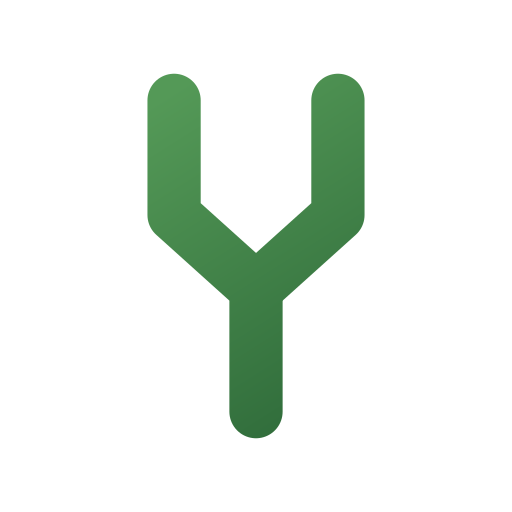
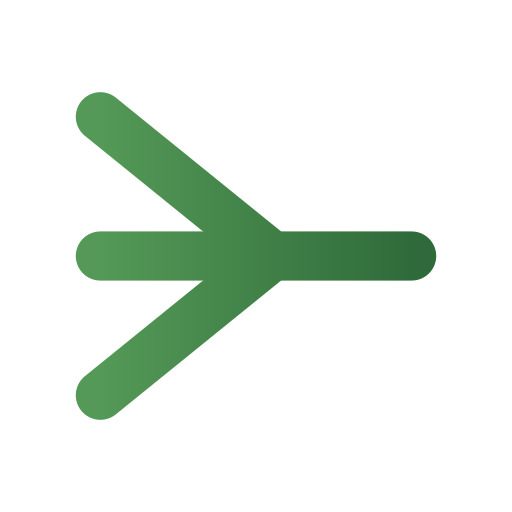
feat: 标识改为三进一出(三条股道汇入主干) v0.39.2

Changed region(s): [[0.125, 0.125, 0.875, 0.875]]

diff --git a/web/index.html b/web/index.html
@@ -55,11 +55,11 @@
       #initial-loader .logo-group {
         animation: logoFade 2s ease-in-out infinite;
       }
-      /* 股道用描边绘制: 两条上游股道先后并入主干, 再统一发出。 */
+      /* 股道用描边绘制: 三条上游股道先后汇入, 最后统一发出。 */
       #initial-loader .logo-link {
         fill: none;
         stroke: currentColor;
-        stroke-width: 13;
+        stroke-width: 12;
         stroke-linecap: round;
         stroke-linejoin: round;
         stroke-dasharray: 1 2;
@@ -68,7 +68,13 @@
         animation: logoDraw 2s ease-in-out infinite both;
       }
       #initial-loader .logo-link-b {
-        animation-delay: 160ms;
+        animation-delay: 90ms;
+      }
+      #initial-loader .logo-link-c {
+        animation-delay: 180ms;
+      }
+      #initial-loader .logo-link-d {
+        animation-delay: 380ms;
       }
 
       @keyframes logoDraw {
@@ -98,8 +104,10 @@
     <div id="initial-loader" role="status" aria-label="Loading">
       <svg viewBox="0 0 100 100" xmlns="http://www.w3.org/2000/svg">
         <g class="logo-group">
-          <path class="logo-link" pathLength="1" d="M30 12 V40 L50 58 V88" />
-          <path class="logo-link logo-link-b" pathLength="1" d="M70 12 V40 L50 58" />
+          <path class="logo-link" pathLength="1" d="M12 16 L54 50" />
+          <path class="logo-link logo-link-b" pathLength="1" d="M12 50 H54" />
+          <path class="logo-link logo-link-c" pathLength="1" d="M12 84 L54 50" />
+          <path class="logo-link logo-link-d" pathLength="1" d="M54 50 H88" />
         </g>
       </svg>
     </div>

diff --git a/web/src/components/modules/logo/index.tsx b/web/src/components/modules/logo/index.tsx
@@ -1,17 +1,19 @@
-// Logo 渲染站点标识 -- 编组场: 两条上游股道并入一条主干, 再由主干统一发出。
+// Logo 渲染站点标识 -- 编组场: 三条上游股道扇形汇入, 再由主干统一发出。
 // 图形用 currentColor 渐变, 因此跟随主题色(浅色/深色模式自动适配)。
 export default function Logo({ size = 48 }: { size?: number | string }) {
     return (
         <svg viewBox="0 0 100 100" xmlns="http://www.w3.org/2000/svg" width={size} height={size} className="text-primary">
             <defs>
-                <linearGradient id="switchyardLogo" x1="26" y1="12" x2="74" y2="88" gradientUnits="userSpaceOnUse">
+                <linearGradient id="switchyardLogo" x1="12" y1="50" x2="88" y2="50" gradientUnits="userSpaceOnUse">
                     <stop offset="0%" stopColor="currentColor" />
                     <stop offset="100%" stopColor="currentColor" stopOpacity="0.72" />
                 </linearGradient>
             </defs>
-            <g stroke="url(#switchyardLogo)" strokeWidth="13" strokeLinecap="round" strokeLinejoin="round" fill="none">
-                <path d="M30 12 V40 L50 58 V88" />
-                <path d="M70 12 V40 L50 58" />
+            <g stroke="url(#switchyardLogo)" strokeWidth="12" strokeLinecap="round" strokeLinejoin="round" fill="none">
+                <path d="M12 16 L54 50" />
+                <path d="M12 50 H54" />
+                <path d="M12 84 L54 50" />
+                <path d="M54 50 H88" />
             </g>
         </svg>
     );

diff --git a/main.go b/main.go
@@ -2,7 +2,7 @@ package main
 
 import "github.com/alvindingpeng/switchyard/cmd"
 
-// Version v0.39.1
+// Version v0.39.2
 
 func main() {
 	cmd.Execute()

diff --git a/CHANGELOG.md b/CHANGELOG.md
@@ -1,5 +1,16 @@
 # 更新说明
 
+## v0.39.2 — 2026-10-18
+
+标识改为「三进一出」：三条上游股道从左侧扇形汇入，主干水平发出，比两股汇流更直白地表达"多条上游汇入，一种协议发出"。
+
+- 四条股道统一笔宽 12、圆头圆角；交汇点等宽衔接，不出现粗细台阶
+- 全套资产同步重绘：`logo.svg`、`logo-dark.svg`、`favicon.ico`（16/32/48）、`apple-icon.png` 与两个 PWA 图标
+- 首屏加载动画改为三条股道依次汇入、主干最后发出（四级描边延时）
+- 取舍说明：16px 下三条股道会退化为「横线 + 两个短斜头」，识别度低于两股汇流版本
+
+---
+
 ## v0.39.1 — 2026-10-18
 
 品牌标识重做：新 logo 采用「编组」意象 —— 两条上游股道并入一条主干，再由主干统一发出，对应"多条上游汇入，一种协议发出"。
